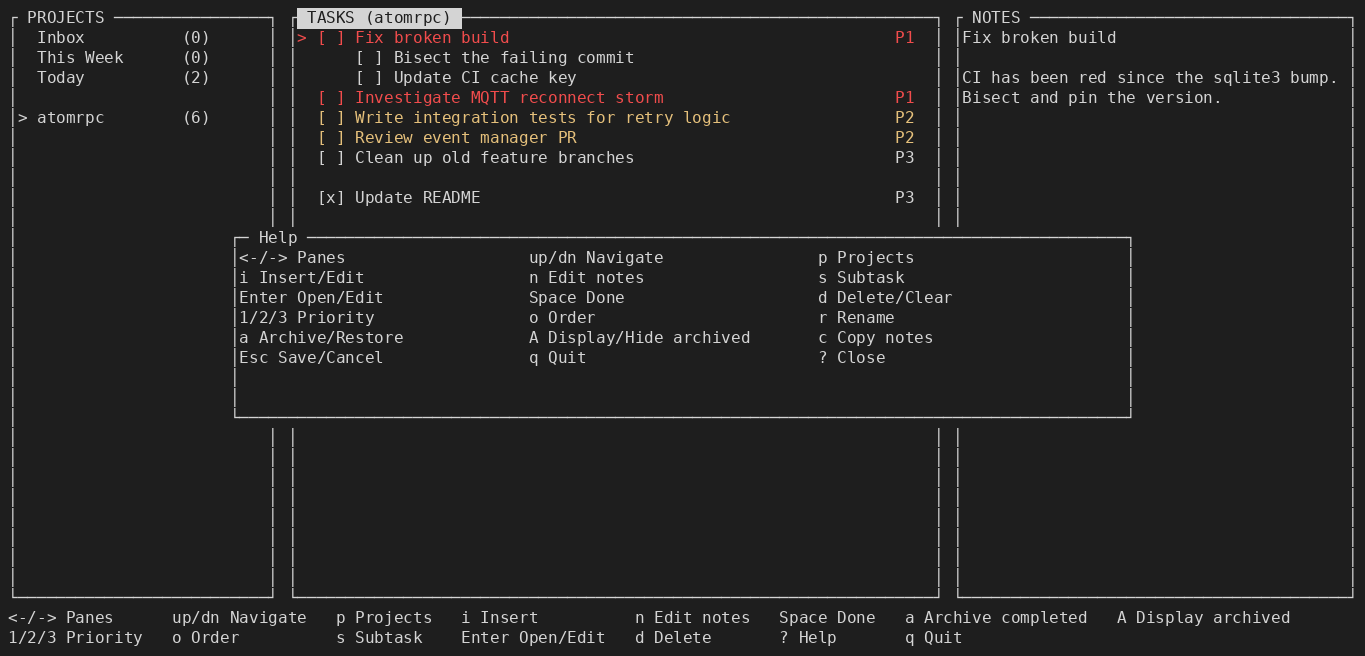
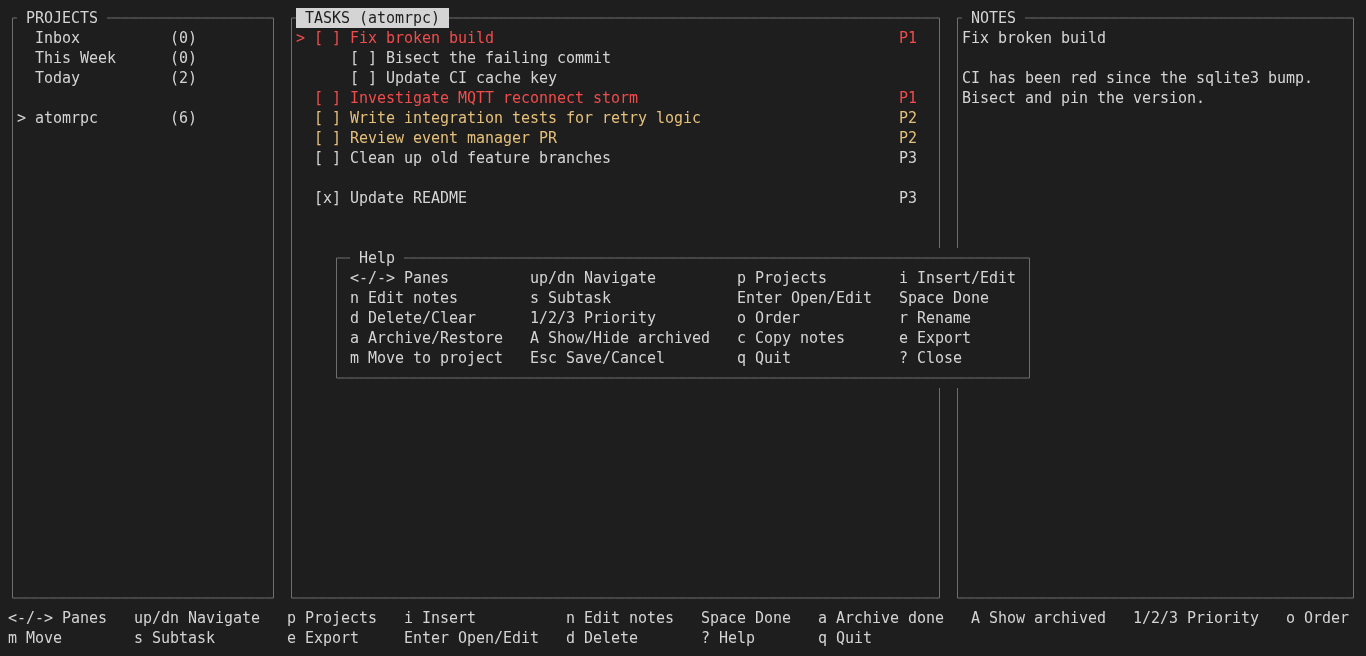
docs(readme): refresh screenshots and add the Move task popup
The screenshots still showed the old footer labels and Help layout.

- Regenerate all screenshots with scripts/screenshots.py
- Add a Move task popup screenshot and lay the table out as 2x2

diff --git a/README.md b/README.md
@@ -10,9 +10,11 @@ I used to scatter textual todo files across every project directory I worked in,
 
 ## Screenshots
 
-| Main view | Task form | Help overlay |
-| --- | --- | --- |
-| [![Main view](screenshots/main-view.png)](screenshots/main-view.png) | [![Task edit form](screenshots/task-edit-form.png)](screenshots/task-edit-form.png) | [![Help overlay](screenshots/help-overlay.png)](screenshots/help-overlay.png) |
+| Main view | Task form |
+| --- | --- |
+| [![Main view](screenshots/main-view.png)](screenshots/main-view.png) | [![Task edit form](screenshots/task-edit-form.png)](screenshots/task-edit-form.png) |
+| **Move task** | **Help overlay** |
+| [![Move task popup](screenshots/move-task.png)](screenshots/move-task.png) | [![Help overlay](screenshots/help-overlay.png)](screenshots/help-overlay.png) |
 
 The primary design priorities are:
 
